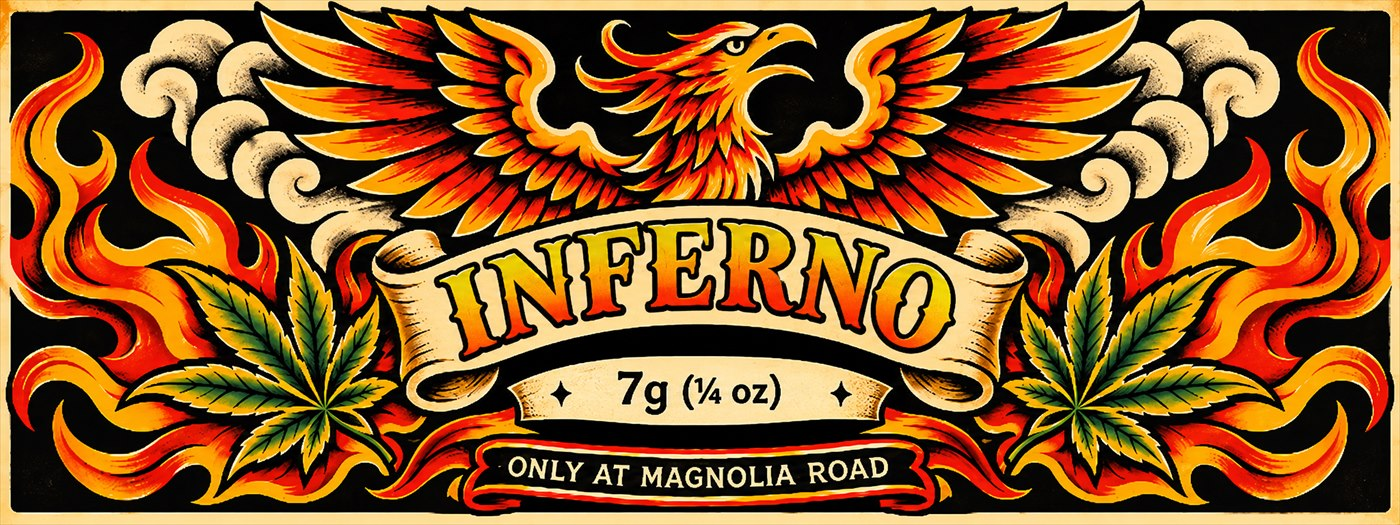
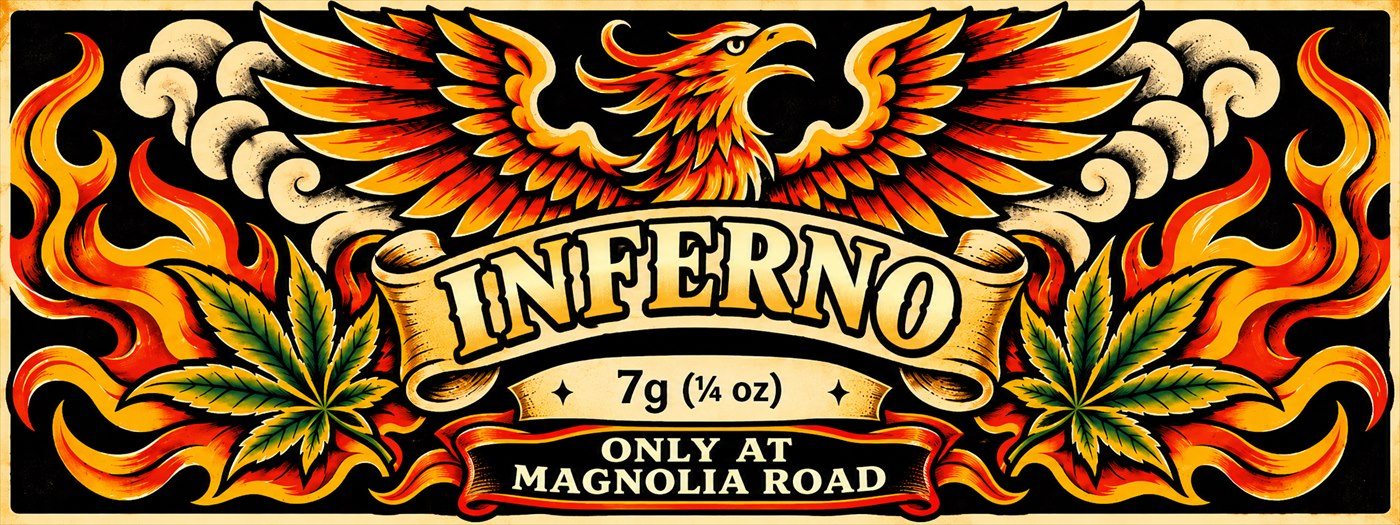
Publish 2026-11-18 21:16

diff --git a/index.html b/index.html
@@ -555,10 +555,10 @@ body.editing [data-box] [contenteditable="true"]{cursor:text}
       { src:'img/ede-4.jpg', w:1400, h:394, alt:'Every Day Extraordinary label: moonlit mountains and lake under a starry sky, one ounce, 28 grams, only at Magnolia Road' }
     ],
     inferno: [
-      { src:'img/inferno.jpg',   w:1400, h:525, alt:'Inferno label, phoenix and flames with green lettering, quarter ounce, 7 grams, only at Magnolia Road' },
-      { src:'img/inferno-2.jpg', w:1400, h:525, alt:'Inferno label, phoenix and flames with orange lettering, quarter ounce, 7 grams, only at Magnolia Road' },
-      { src:'img/inferno-3.jpg', w:1400, h:525, alt:'Inferno label, phoenix and flames with gold lettering, quarter ounce, 7 grams, only at Magnolia Road' },
-      { src:'img/inferno-4.jpg', w:1400, h:525, alt:'Inferno label, phoenix and flames with blue lettering, quarter ounce, 7 grams, only at Magnolia Road' }
+      { src:'img/inferno.jpg',   w:1400, h:525, alt:'Inferno label, phoenix and flames with orange lettering, quarter ounce, 7 grams, only at Magnolia Road' },
+      { src:'img/inferno-2.jpg', w:1400, h:525, alt:'Inferno label, phoenix and flames with cream and gold lettering, quarter ounce, 7 grams, only at Magnolia Road' },
+      { src:'img/inferno-3.jpg', w:1400, h:525, alt:'Inferno label, phoenix and flames with blue lettering, quarter ounce, 7 grams, only at Magnolia Road' },
+      { src:'img/inferno-4.jpg', w:1400, h:525, alt:'Inferno label, phoenix and flames with purple and pink lettering, quarter ounce, 7 grams, only at Magnolia Road' }
     ],
     rainforest: [
       { src:'img/rainforest.jpg', w:1400, h:525, alt:'Rain Forest label, quarter ounce, 7 grams, only at Magnolia Road' }
